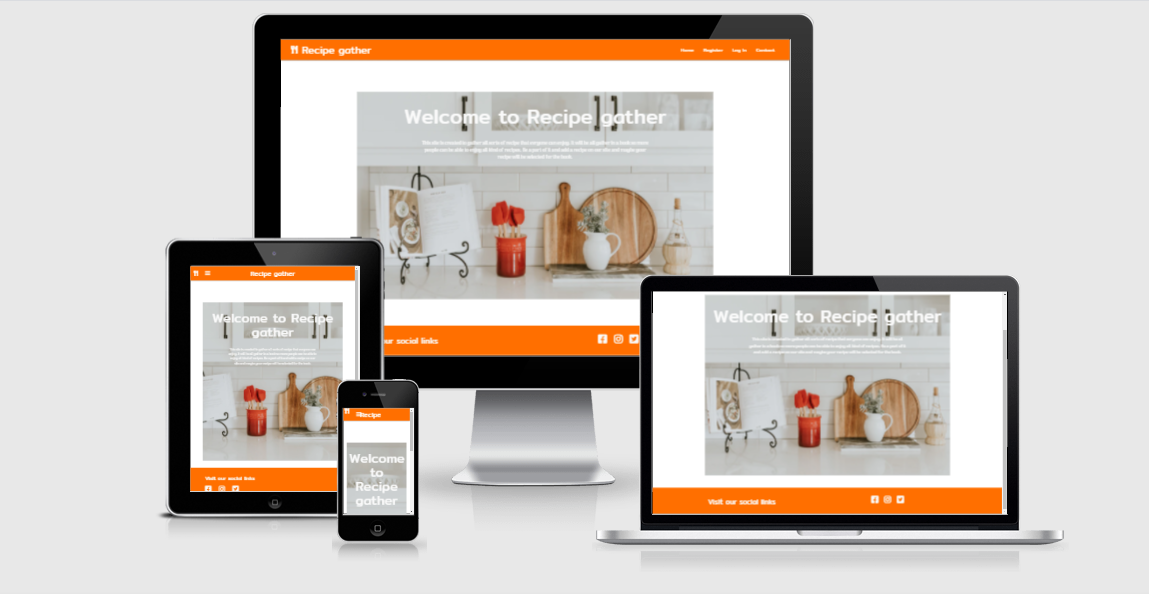
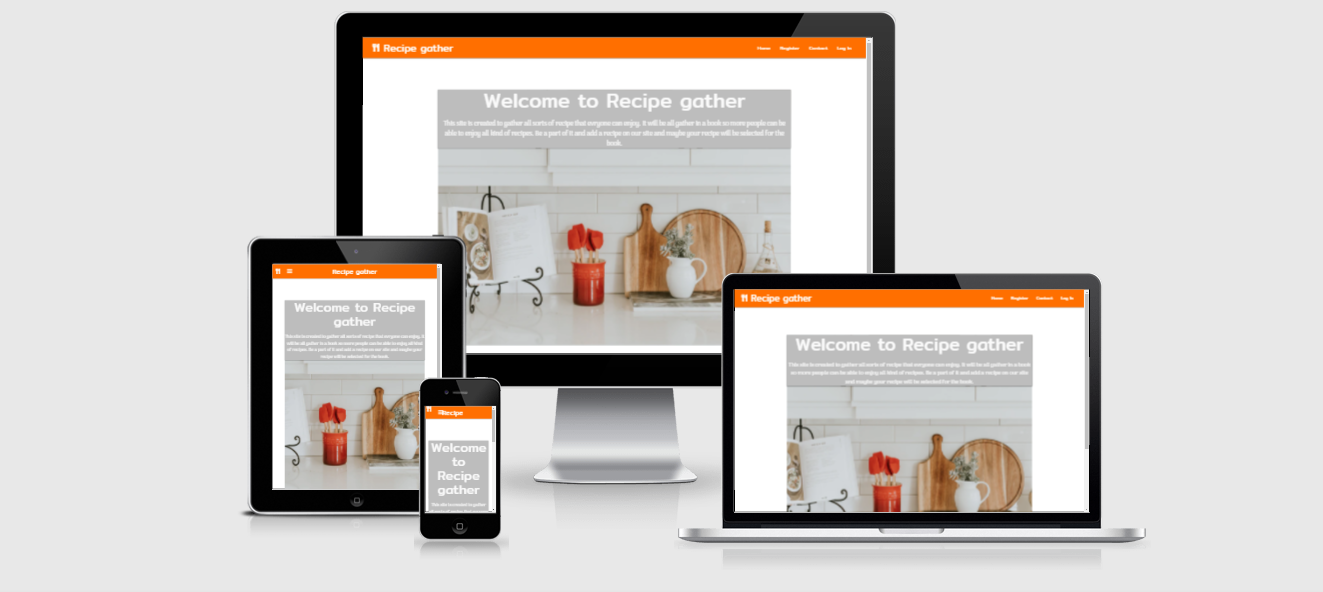
Very last fix

Changed region(s): [[0.1218, 0.0, 0.9443, 0.9426]]

diff --git a/templates/contact.html b/templates/contact.html
@@ -16,26 +16,26 @@
     <!-- Contact form -->
 
 <div class="row card-panel">
-    <form class="col s12 m8 offset-m2" onsubmit="return sendMail(this);">
+    <form name="myform" class="col s12 m8 offset-m2" onsubmit="return sendMail(this);">
       <div class="row">
         <div class="input-field col s6">
-          <input id="fname" name="fname" type="text" class="form-control" required>
+          <input id="fname" name="fname" type="text" class="form-control" >
           <label for="fname">First Name</label>
         </div>
         <div class="input-field col s6">
-          <input id="lname" name="lname" type="text" class="form-control" required>
+          <input id="lname" name="lname" type="text" class="form-control" >
           <label for="lname">Last Name</label>
         </div>
       </div>
       <div class="row">
         <div class="input-field col s12">
-          <input id="email" name="email" type="email" class="form-control" required>
+          <input id="email" name="email" type="email" class="form-control" >
          <label for="email">Email</label>
         </div>
       </div>
       <div class="row">
         <div class="input-field col s12">
-          <textarea placeholder="Question" name="question" id="question" class="materialize-textarea recipe-area" required></textarea>
+          <textarea placeholder="Question" name="question" id="question" class="materialize-textarea recipe-area" ></textarea>
           <label for="question"></label>
         </div>
       </div>

diff --git a/templates/index.html b/templates/index.html
@@ -3,7 +3,14 @@
 
 <section>
    
-    <div class="row center-align text-color card grey lighten-1">
+
+<div class="index-image">
+
+    <!-- CREADIT TO THE CREATOR OF THE PICTURE
+                                        Becca Tapert 
+                                        kitchen
+                                        https://unsplash.com/photos/mDOGXiuVb4M -->
+    <div class="center-align text-color card grey lighten-1 recipe-index">
     <div class="col s12 center-align">
         <h1 class="header-site">Welcome to Recipe gather</h1>
 </div> 
@@ -13,13 +20,6 @@
         </p>
 </div>
 </div>
-<div class="index-image">
-
-    <!-- CREADIT TO THE CREATOR OF THE PICTURE
-                                        Becca Tapert 
-                                        kitchen
-                                        https://unsplash.com/photos/mDOGXiuVb4M -->
-
 </div>
 
 </section>

diff --git a/static/css/style.css b/static/css/style.css
@@ -5,6 +5,7 @@
     padding-left: 2%;
     padding-right: 2%;
 }
+
  /* Text for the recipes */
 .text-color {
     color: #fafafa;
@@ -51,6 +52,7 @@
 /* Images */ 
 
 .index-image{
+    background-color: rgba(0, 0, 0, 0.5);
     background: url(https://images.unsplash.com/photo-1556909211-36987daf7b4d?ixid=MnwxMjA3fDB8MHxwaG90by1wYWdlfHx8fGVufDB8fHx8&ixlib=rb-1.2.1&auto=format&fit=crop&w=1050&q=80) center no-repeat;
     background-size: cover;
     padding-bottom: 600px;

diff --git a/static/js/script.js b/static/js/script.js
@@ -4,6 +4,10 @@ $(document).ready(function(){
     $('select').formSelect();
     $('.modal').modal();
     $('.recipe-area').val();
+    $("#fname").attr('required', '');
+    $("#lname").attr('required', '');
+    $("#email").attr('required', '');
+    $("#question").attr('required', '');
   M.textareaAutoResize($('.recipe-area'));
   });
 

diff --git a/app.py b/app.py
@@ -220,4 +220,4 @@ def contact():
 if __name__ == "__main__":
     app.run(host=os.environ.get("IP"),
             port=int(os.environ.get("PORT")),
-            debug=True)
+            debug=False)

diff --git a/README.md b/README.md
@@ -48,6 +48,8 @@ to contribute to the site with recipe that the world can enjoy.
 
  * Pagination for the site.
  * Category names change on recipes when category is changed by admin.
+ * Comment section
+ * Ratings
 
 ### Header
 
@@ -71,6 +73,7 @@ to contribute to the site with recipe that the world can enjoy.
  - [HTML Validator] (https://validator.w3.org/nu/)
  - [CSS Validator] (https://jigsaw.w3.org/css-validator/)
  - [WebpageTest] (https://www.webpagetest.org/) 
+ - [Python validator] (https://extendsclass.com/python-tester.html)
  - <img src="/static/assets/images/testing.png">
  
 
